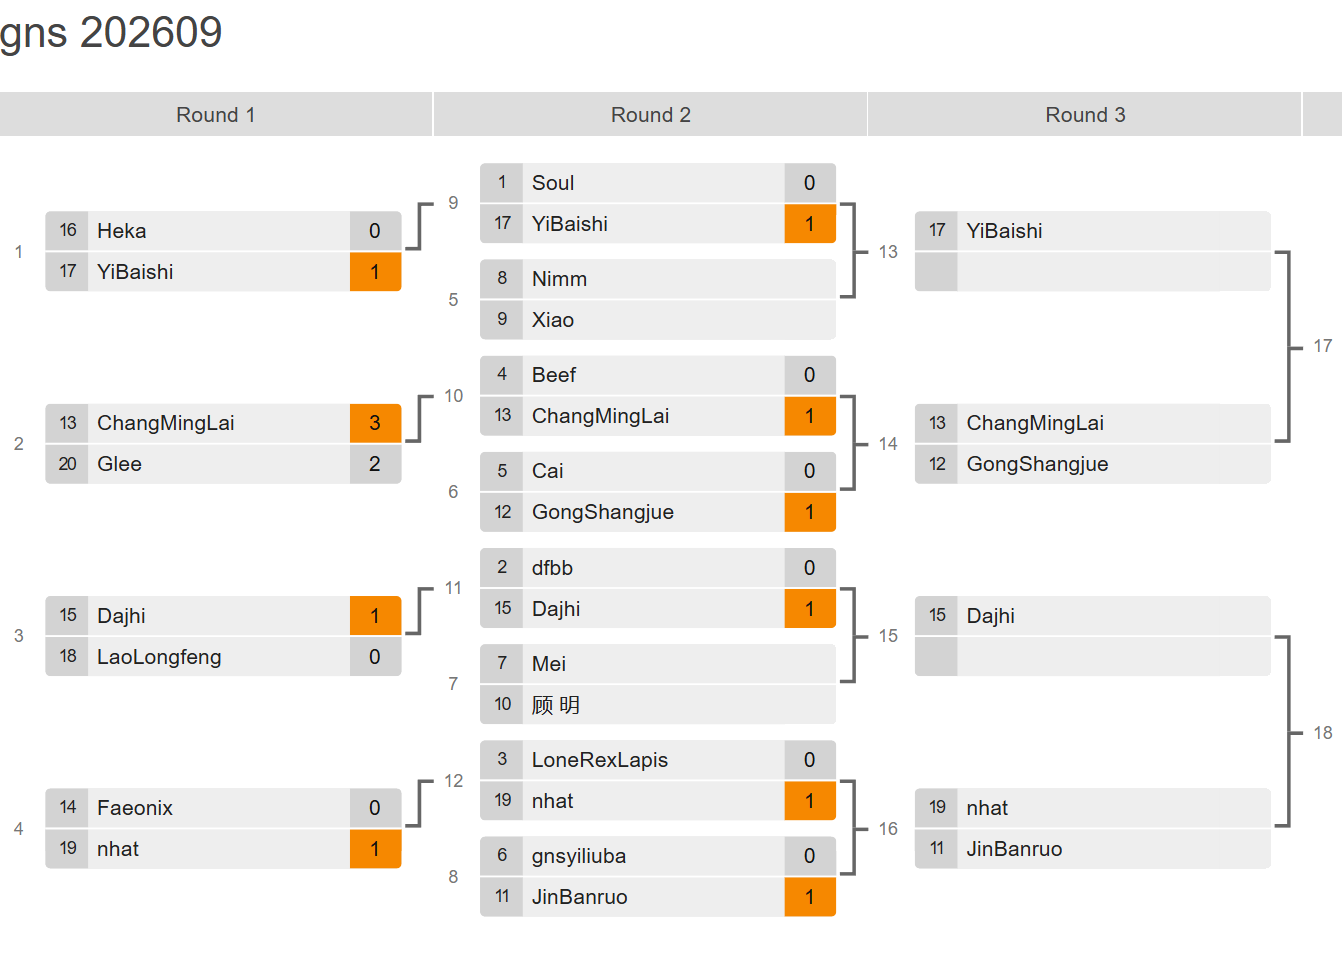
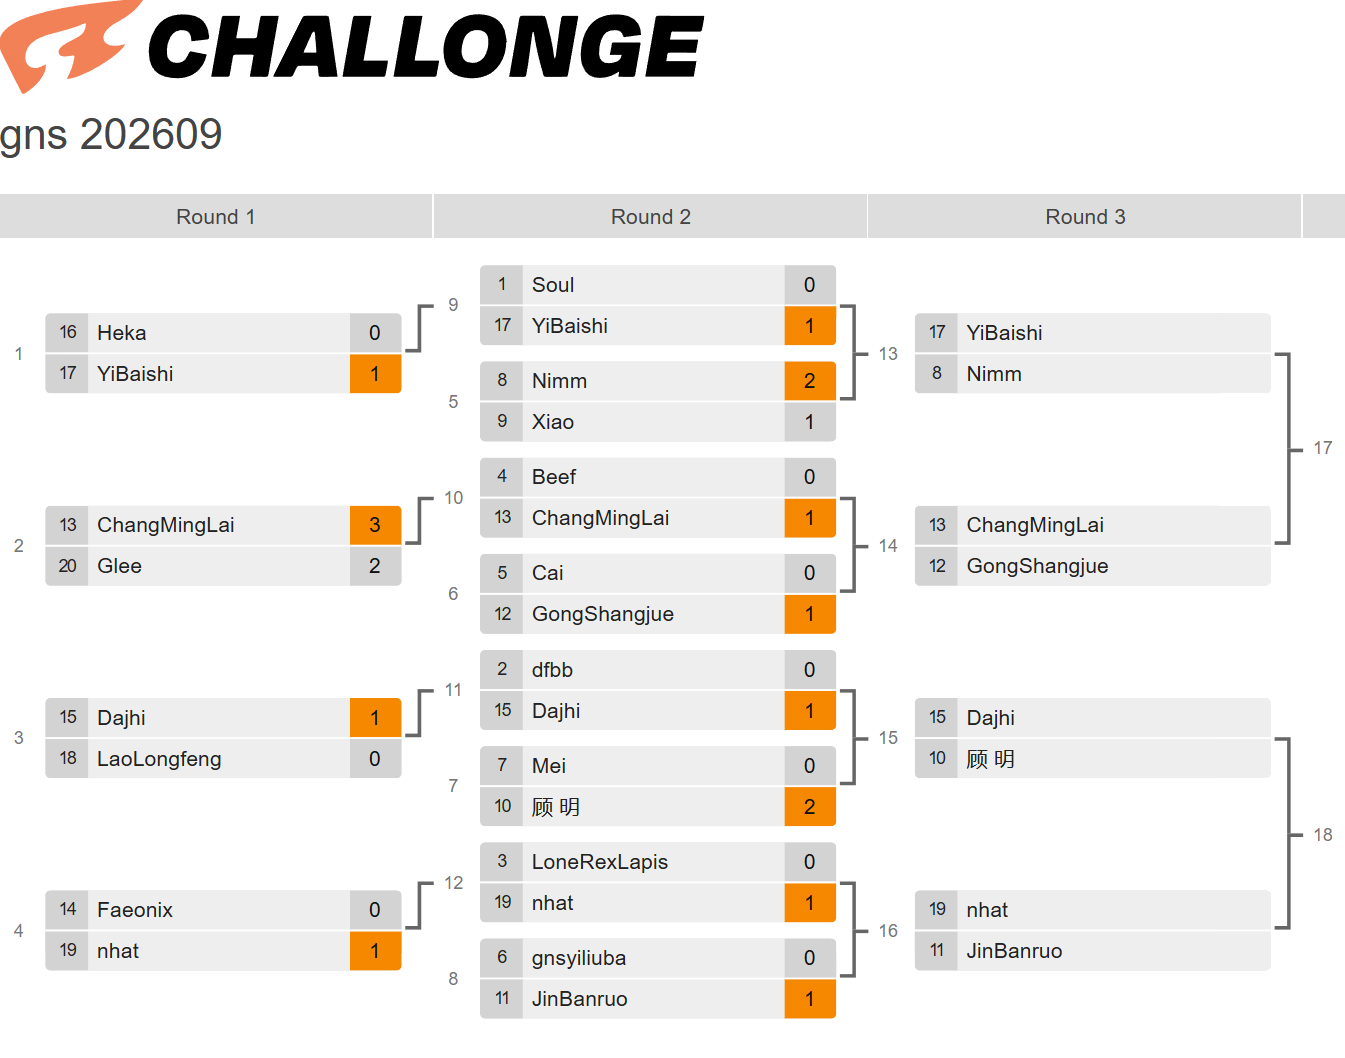
Quartz sync: Sep 18, 2026, 3:32 PM

diff --git a/content/Lore/GNS Martial Tournament 202608.md b/content/Lore/GNS Martial Tournament 202608.md
@@ -169,6 +169,9 @@ Me
 ### dahji
 - I feel like mine will be a side character as well but she will be mostly curious, since she is an ex Velvet Shade operative.
 - Also, getting all the tea during the tournament while admiring the baddies too!!!!
+
+![[gns-tourny-202608-dahji-vs-dfbb.png]]
+
 ### beef
 ![[gns tourny 202608 beef vs chang.png]]
 
@@ -195,6 +198,10 @@ Me
 ### DFBB
 - Just as [[dongfunbubai]] was about to deliver the winning strike his bout with momentary lost of consciousness struck.  Every since waking up in the arms of one of the six jianghu beauties he has been plagued with these momentary blackouts... however, the haunting image of the culprit that pushed him off the clip had become a little clearer.
 
+![[gns tourny 202608  dfbb 1.png]]
+
+![[gns tourny 202608  dfbb 2.png]]
+
 ### cai
 - A mysterious and beautiful transformation occurred the night before [[cai cai 采采卷耳]] match forcing her to look for the safety of ocean waters
 ![[cai3.jpg]]
@@ -209,7 +216,11 @@ Me
 - BOLD
 - ![[gns tourny nimm callout.jpg]]
 
-## Round 1
+### heka
+
+![[gns-tourny-202608-heka-vs-yi.png]]
+
+## Round Robin
 
 GNS tournament for a chance to win a battle pass is underway. The brackets for round one have been set. Let me know the results of your match. Special thanks to the Mythic players for setting up the fight club and training sessions. Hopefully, everyone enjoyed the sessions. We will be hold more before the tournament. 
 
@@ -217,9 +228,7 @@ Note that in Round 2 you most likely will be paired with a mythic player. Take t
 
 And most of all, have fun PVP in a safe environment
 
-![[gns tourny 202608 round1.png]]
-
-## Round 2
+## Ongoing
 
 ![[gns-tourny-202608-progress.png]]
 
